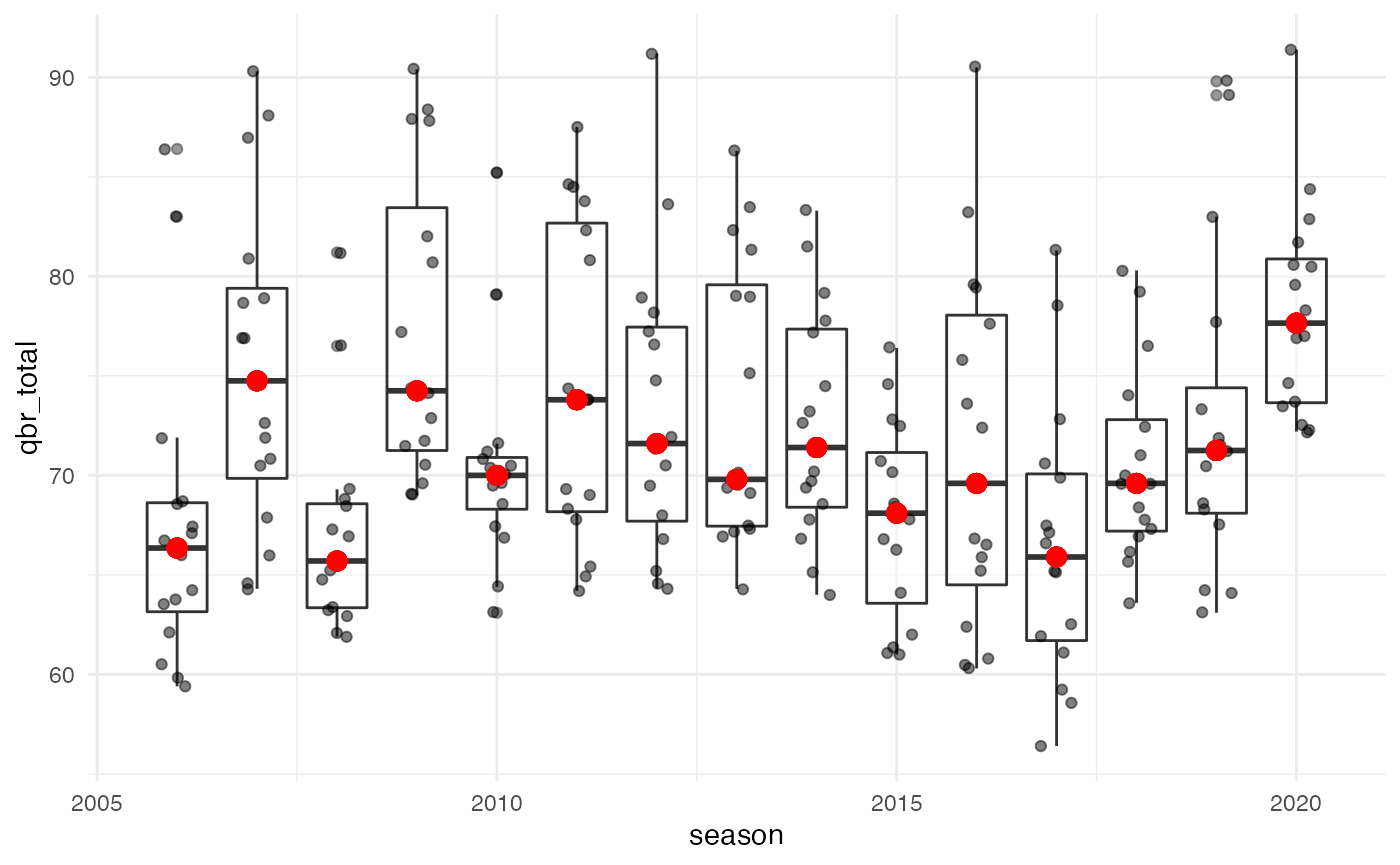
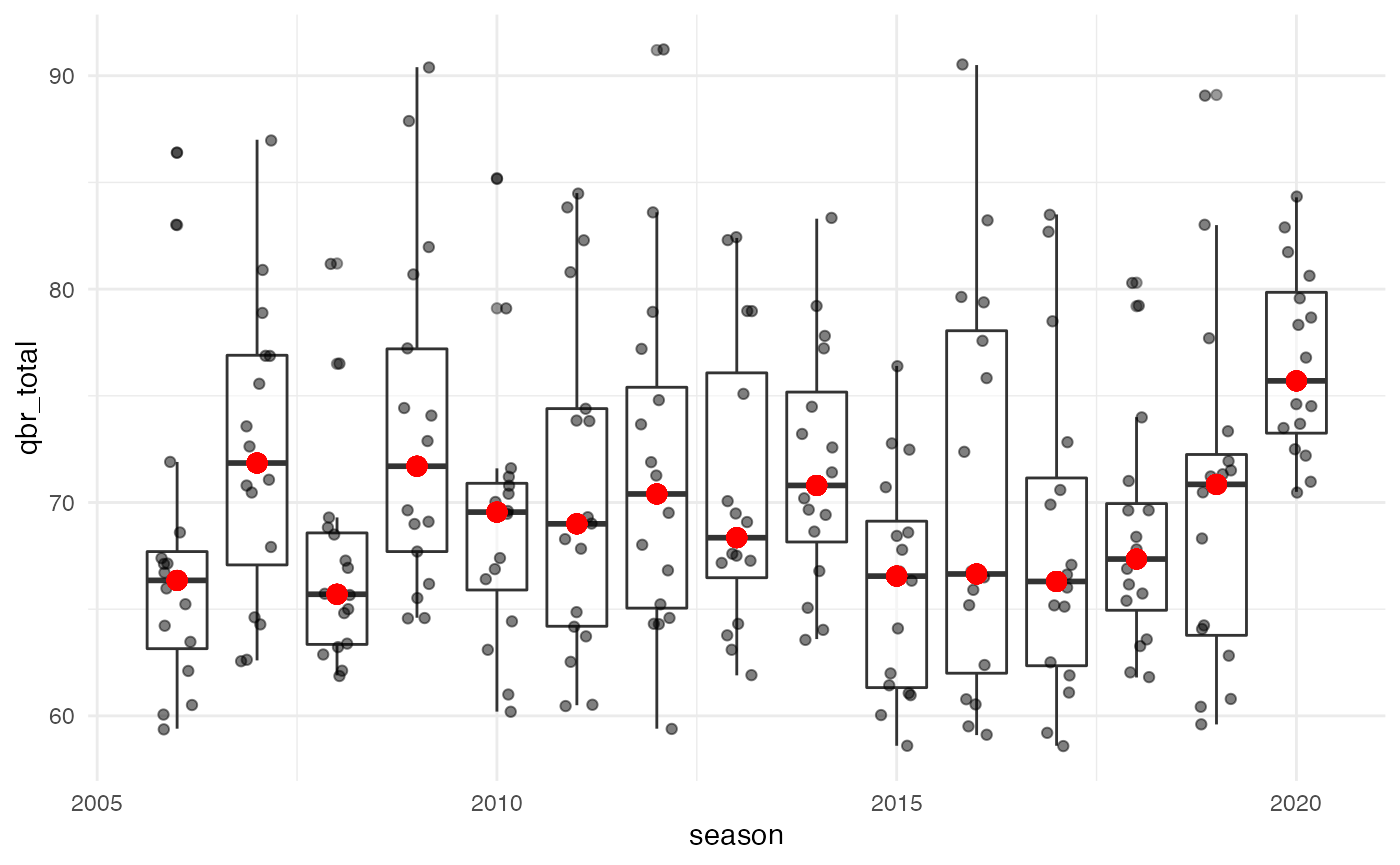
update vignette, update gt theme's to reflect transparent to hex code, rebuild pkgdown site

diff --git a/docs/articles/qbr_example.html b/docs/articles/qbr_example.html
@@ -31,7 +31,7 @@
       </button>
       <span class="navbar-brand">
         <a class="navbar-link" href="../index.html">espnscrapeR</a>
-        <span class="version label label-default" data-toggle="tooltip" data-placement="bottom" title="Released version">0.5.2</span>
+        <span class="version label label-default" data-toggle="tooltip" data-placement="bottom" title="Released version">0.6.0</span>
       </span>
     </div>
 
@@ -129,43 +129,36 @@ Package Installation
 <span class="co">#&gt; Scraping QBR totals for 2020!</span></code></pre></div>
 <p>But it’ll be easier and recommended to just read in the data directly with either <code>nflreadr</code> or just the raw URL.</p>
 <div class="sourceCode" id="cb4"><pre class="downlit sourceCode r">
-<code class="sourceCode R"><span class="va">nfl_qbr_season</span> <span class="op">&lt;-</span> <span class="fu">readr</span><span class="fu">::</span><span class="fu"><a href="https://readr.tidyverse.org/reference/read_delim.html">read_csv</a></span><span class="op">(</span><span class="st">"https://raw.githubusercontent.com/nflverse/espnscrapeR-data/master/data/qbr-nfl-season.csv"</span><span class="op">)</span>
-<span class="co">#&gt; Rows: 633 Columns: 22</span>
-<span class="co">#&gt; ── Column specification ────────────────────────────────────────────────────────</span>
-<span class="co">#&gt; Delimiter: ","</span>
-<span class="co">#&gt; chr  (9): season_type, game_week, team_abb, short_name, first_name, last_nam...</span>
-<span class="co">#&gt; dbl (13): season, player_id, rank, qbr_total, pts_added, qb_plays, epa_total...</span>
-<span class="co">#&gt; </span>
-<span class="co">#&gt; ℹ Use `spec()` to retrieve the full column specification for this data.</span>
-<span class="co">#&gt; ℹ Specify the column types or set `show_col_types = FALSE` to quiet this message.</span></code></pre></div>
+<code class="sourceCode R"><span class="va">nfl_qbr_season</span> <span class="op">&lt;-</span> <span class="fu">readr</span><span class="fu">::</span><span class="fu"><a href="https://readr.tidyverse.org/reference/read_delim.html">read_csv</a></span><span class="op">(</span><span class="st">"https://raw.githubusercontent.com/nflverse/espnscrapeR-data/master/data/qbr-nfl-season.csv"</span><span class="op">)</span></code></pre></div>
 <p>This is the QBR values for all QBs at the season level from 2006 to now. The <code><a href="https://pillar.r-lib.org/reference/glimpse.html">dplyr::glimpse()</a></code> function can be used to quickly see the type of the columns (IE numeric, character, etc) and the top few values. You can think of it as a beefed up version of the <code><a href="https://rdrr.io/r/utils/str.html">str()</a></code> function.</p>
 <div class="sourceCode" id="cb5"><pre class="downlit sourceCode r">
 <code class="sourceCode R"><span class="va">nfl_qbr_season</span> <span class="op">%&gt;%</span> 
   <span class="fu">glimpse</span><span class="op">(</span><span class="op">)</span>
-<span class="co">#&gt; Rows: 633</span>
-<span class="co">#&gt; Columns: 22</span>
+<span class="co">#&gt; Rows: 1,102</span>
+<span class="co">#&gt; Columns: 23</span>
 <span class="co">#&gt; $ season        &lt;dbl&gt; 2006, 2006, 2006, 2006, 2006, 2006, 2006, 2006, 2006, 20…</span>
-<span class="co">#&gt; $ season_type   &lt;chr&gt; "Playoffs", "Playoffs", "Playoffs", "Playoffs", "Playoff…</span>
+<span class="co">#&gt; $ season_type   &lt;chr&gt; "Regular", "Regular", "Regular", "Regular", "Regular", "…</span>
 <span class="co">#&gt; $ game_week     &lt;chr&gt; "Season Total", "Season Total", "Season Total", "Season …</span>
-<span class="co">#&gt; $ team_abb      &lt;chr&gt; "NE", "IND", "NO", "NYG", "PHI", "SEA", "NYJ", "DAL", "C…</span>
-<span class="co">#&gt; $ player_id     &lt;dbl&gt; 2330, 1428, 2580, 5526, 2026, 1575, 2149, 5209, 4480, 73…</span>
-<span class="co">#&gt; $ short_name    &lt;chr&gt; "T. Brady", "P. Manning", "D. Brees", "E. Manning", "J. …</span>
+<span class="co">#&gt; $ team_abb      &lt;chr&gt; "IND", "NE", "SD", "CIN", "NO", "BAL", "NYJ", "DAL", "PH…</span>
+<span class="co">#&gt; $ player_id     &lt;dbl&gt; 1428, 2330, 5529, 4459, 2580, 733, 2149, 5209, 1753, 959…</span>
+<span class="co">#&gt; $ name_short    &lt;chr&gt; "P. Manning", "T. Brady", "P. Rivers", "C. Palmer", "D. …</span>
 <span class="co">#&gt; $ rank          &lt;dbl&gt; 1.0, 2.0, 3.0, 4.0, 5.0, 6.0, 7.0, 8.0, 9.0, 10.0, 11.0,…</span>
-<span class="co">#&gt; $ qbr_total     &lt;dbl&gt; 83.0, 71.9, 68.7, 63.8, 59.8, 55.5, 52.5, 40.0, 30.5, 22…</span>
-<span class="co">#&gt; $ pts_added     &lt;dbl&gt; 12.8, 9.4, 3.1, 1.3, 2.8, 0.8, -0.6, -1.8, -5.5, -2.4, -…</span>
-<span class="co">#&gt; $ qb_plays      &lt;dbl&gt; 135, 174, 92, 38, 76, 79, 47, 34, 102, 35, 35, 31, 624, …</span>
-<span class="co">#&gt; $ epa_total     &lt;dbl&gt; 19.9, 18.6, 7.5, 3.4, 7.2, 5.4, 1.8, 0.2, 0.5, -0.3, -1.…</span>
-<span class="co">#&gt; $ pass          &lt;dbl&gt; 16.9, 15.9, 6.2, 1.9, 6.8, 2.8, 3.0, -0.9, -1.0, -0.7, -…</span>
-<span class="co">#&gt; $ run           &lt;dbl&gt; 0.4, -0.6, -0.5, 0.3, -1.1, 0.0, -2.1, 0.0, -1.0, 0.3, 0…</span>
+<span class="co">#&gt; $ qbr_total     &lt;dbl&gt; 86.4, 68.6, 67.4, 67.1, 66.7, 66.0, 64.2, 63.5, 62.1, 60…</span>
+<span class="co">#&gt; $ pts_added     &lt;dbl&gt; 85.5, 30.9, 28.2, 29.9, 36.7, 27.2, 20.8, 22.0, 17.2, 8.…</span>
+<span class="co">#&gt; $ qb_plays      &lt;dbl&gt; 624, 610, 542, 623, 631, 548, 587, 414, 380, 447, 717, 5…</span>
+<span class="co">#&gt; $ epa_total     &lt;dbl&gt; 108.8, 57.9, 53.0, 58.3, 64.2, 51.8, 47.1, 40.9, 34.9, 2…</span>
+<span class="co">#&gt; $ pass          &lt;dbl&gt; 96.0, 38.8, 43.1, 43.2, 61.0, 38.2, 27.9, 34.0, 17.1, 17…</span>
+<span class="co">#&gt; $ run           &lt;dbl&gt; 6.8, 4.3, -0.9, -0.3, -5.2, 8.2, 3.0, -2.9, 9.1, -0.3, 0…</span>
 <span class="co">#&gt; $ exp_sack      &lt;dbl&gt; 0, 0, 0, 0, 0, 0, 0, 0, 0, 0, 0, 0, 0, 0, 0, 0, 0, 0, 0,…</span>
-<span class="co">#&gt; $ penalty       &lt;dbl&gt; 0.3, 1.2, -0.9, 0.5, -0.2, 1.5, 0.2, 0.1, 0.1, -0.1, 0.0…</span>
-<span class="co">#&gt; $ qbr_raw       &lt;dbl&gt; 79.2, 68.2, 61.7, 61.7, 62.6, 53.5, 45.5, 32.1, 31.9, 27…</span>
-<span class="co">#&gt; $ sack          &lt;dbl&gt; -2.2, -2.1, -2.7, -0.6, -1.6, -1.1, -0.6, -1.1, -2.4, -0…</span>
-<span class="co">#&gt; $ first_name    &lt;chr&gt; "Tom", "Peyton", "Drew", "Eli", "Jeff", "Matt", "Chad", …</span>
-<span class="co">#&gt; $ last_name     &lt;chr&gt; "Brady", "Manning", "Brees", "Manning", "Garcia", "Hasse…</span>
-<span class="co">#&gt; $ name          &lt;chr&gt; "Tom Brady", "Peyton Manning", "Drew Brees", "Eli Mannin…</span>
-<span class="co">#&gt; $ headshot_href &lt;chr&gt; "https://a.espncdn.com/i/headshots/nfl/players/full/2330…</span>
-<span class="co">#&gt; $ team          &lt;chr&gt; "Patriots", "Colts", "Saints", "Giants", "Eagles", "Seah…</span></code></pre></div>
+<span class="co">#&gt; $ penalty       &lt;dbl&gt; 1.1, 2.8, 0.3, 2.5, 0.6, -0.6, 5.2, 0.5, -0.4, 2.4, 3.0,…</span>
+<span class="co">#&gt; $ qbr_raw       &lt;dbl&gt; 87.4, 67.2, 67.6, 66.4, 69.5, 66.9, 62.3, 67.9, 65.5, 56…</span>
+<span class="co">#&gt; $ sack          &lt;dbl&gt; -5.0, -12.0, -10.4, -12.9, -7.7, -6.0, -10.9, -9.2, -9.2…</span>
+<span class="co">#&gt; $ name_first    &lt;chr&gt; "Peyton", "Tom", "Philip", "Carson", "Drew", "Steve", "C…</span>
+<span class="co">#&gt; $ name_last     &lt;chr&gt; "Manning", "Brady", "Rivers", "Palmer", "Brees", "McNair…</span>
+<span class="co">#&gt; $ name_display  &lt;chr&gt; "Peyton Manning", "Tom Brady", "Philip Rivers", "Carson …</span>
+<span class="co">#&gt; $ headshot_href &lt;chr&gt; "https://a.espncdn.com/i/headshots/nfl/players/full/1428…</span>
+<span class="co">#&gt; $ team          &lt;chr&gt; "Colts", "Patriots", "Chargers", "Bengals", "Saints", "R…</span>
+<span class="co">#&gt; $ qualified     &lt;lgl&gt; TRUE, TRUE, TRUE, TRUE, TRUE, TRUE, TRUE, TRUE, TRUE, TR…</span></code></pre></div>
 </div>
 <div id="work-with-the-data" class="section level2">
 <h2 class="hasAnchor">
@@ -181,25 +174,26 @@ Package Installation
 <span class="co">#&gt; # A tibble: 15 × 2</span>
 <span class="co">#&gt;    season qbr_median</span>
 <span class="co">#&gt;     &lt;dbl&gt;      &lt;dbl&gt;</span>
-<span class="co">#&gt;  1   2006       55.5</span>
-<span class="co">#&gt;  2   2007       59.8</span>
-<span class="co">#&gt;  3   2008       56.6</span>
-<span class="co">#&gt;  4   2009       65.2</span>
-<span class="co">#&gt;  5   2010       55.8</span>
-<span class="co">#&gt;  6   2011       54  </span>
-<span class="co">#&gt;  7   2012       52.8</span>
-<span class="co">#&gt;  8   2013       58.7</span>
-<span class="co">#&gt;  9   2014       59.3</span>
-<span class="co">#&gt; 10   2015       57.2</span>
-<span class="co">#&gt; 11   2016       56.6</span>
-<span class="co">#&gt; 12   2017       55.8</span>
-<span class="co">#&gt; 13   2018       57.6</span>
-<span class="co">#&gt; 14   2019       56.7</span>
-<span class="co">#&gt; 15   2020       68.4</span></code></pre></div>
+<span class="co">#&gt;  1   2006       59.8</span>
+<span class="co">#&gt;  2   2007       64.4</span>
+<span class="co">#&gt;  3   2008       62.5</span>
+<span class="co">#&gt;  4   2009       68.2</span>
+<span class="co">#&gt;  5   2010       62.0</span>
+<span class="co">#&gt;  6   2011       60.5</span>
+<span class="co">#&gt;  7   2012       63.5</span>
+<span class="co">#&gt;  8   2013       63.8</span>
+<span class="co">#&gt;  9   2014       61.8</span>
+<span class="co">#&gt; 10   2015       58.3</span>
+<span class="co">#&gt; 11   2016       65.0</span>
+<span class="co">#&gt; 12   2017       56  </span>
+<span class="co">#&gt; 13   2018       63.4</span>
+<span class="co">#&gt; 14   2019       64.1</span>
+<span class="co">#&gt; 15   2020       71.1</span></code></pre></div>
 <p>We can also <code>group_by()</code> the season and find the max <code>n</code> values per season.</p>
 <div class="sourceCode" id="cb7"><pre class="downlit sourceCode r">
 <code class="sourceCode R"><span class="va">top_16_per_yr</span> <span class="op">&lt;-</span> <span class="va">nfl_qbr_season</span> <span class="op">%&gt;%</span> 
-  <span class="fu">select</span><span class="op">(</span><span class="va">season</span>, <span class="va">team_abb</span>, <span class="va">short_name</span>, <span class="va">qbr_total</span><span class="op">)</span> <span class="op">%&gt;%</span> 
+  <span class="fu"><a href="https://rdrr.io/r/stats/filter.html">filter</a></span><span class="op">(</span><span class="va">qb_plays</span> <span class="op">&gt;=</span> <span class="fl">100</span><span class="op">)</span> <span class="op">%&gt;%</span> 
+  <span class="fu">select</span><span class="op">(</span><span class="va">season</span>, <span class="va">team_abb</span>, <span class="va">name_short</span>, <span class="va">qbr_total</span><span class="op">)</span> <span class="op">%&gt;%</span> 
   <span class="co"># group by season</span>
   <span class="fu">group_by</span><span class="op">(</span><span class="va">season</span><span class="op">)</span> <span class="op">%&gt;%</span> 
   <span class="co"># get top 16</span>
@@ -209,20 +203,20 @@ Package Installation
   <span class="fu">ungroup</span><span class="op">(</span><span class="op">)</span>
 
 <span class="va">top_16_per_yr</span>
-<span class="co">#&gt; # A tibble: 240 × 5</span>
-<span class="co">#&gt;    season team_abb short_name    qbr_total qbr_median</span>
-<span class="co">#&gt;     &lt;dbl&gt; &lt;chr&gt;    &lt;chr&gt;             &lt;dbl&gt;      &lt;dbl&gt;</span>
-<span class="co">#&gt;  1   2006 IND      P. Manning         86.4       66.4</span>
-<span class="co">#&gt;  2   2006 NE       T. Brady           83         66.4</span>
-<span class="co">#&gt;  3   2006 IND      P. Manning         71.9       66.4</span>
-<span class="co">#&gt;  4   2006 NO       D. Brees           68.7       66.4</span>
-<span class="co">#&gt;  5   2006 NE       T. Brady           68.6       66.4</span>
-<span class="co">#&gt;  6   2006 SD       P. Rivers          67.4       66.4</span>
-<span class="co">#&gt;  7   2006 CIN      C. Palmer          67.1       66.4</span>
-<span class="co">#&gt;  8   2006 NO       D. Brees           66.7       66.4</span>
-<span class="co">#&gt;  9   2006 BAL      S. McNair          66         66.4</span>
-<span class="co">#&gt; 10   2006 NYJ      C. Pennington      64.2       66.4</span>
-<span class="co">#&gt; # … with 230 more rows</span></code></pre></div>
+<span class="co">#&gt; # A tibble: 242 × 5</span>
+<span class="co">#&gt;    season team_abb name_short qbr_total qbr_median</span>
+<span class="co">#&gt;     &lt;dbl&gt; &lt;chr&gt;    &lt;chr&gt;          &lt;dbl&gt;      &lt;dbl&gt;</span>
+<span class="co">#&gt;  1   2006 IND      P. Manning      86.4       66.4</span>
+<span class="co">#&gt;  2   2006 NE       T. Brady        83         66.4</span>
+<span class="co">#&gt;  3   2006 IND      P. Manning      71.9       66.4</span>
+<span class="co">#&gt;  4   2006 NE       T. Brady        68.6       66.4</span>
+<span class="co">#&gt;  5   2006 SD       P. Rivers       67.4       66.4</span>
+<span class="co">#&gt;  6   2006 CIN      C. Palmer       67.1       66.4</span>
+<span class="co">#&gt;  7   2006 PHI      J. Garcia       67.1       66.4</span>
+<span class="co">#&gt;  8   2006 NO       D. Brees        66.7       66.4</span>
+<span class="co">#&gt;  9   2006 BAL      S. McNair       66         66.4</span>
+<span class="co">#&gt; 10   2006 TB       T. Rattay       65.2       66.4</span>
+<span class="co">#&gt; # … with 232 more rows</span></code></pre></div>
 <p>We can then visualize this with a quick <code>ggplot</code>.</p>
 <div class="sourceCode" id="cb8"><pre class="downlit sourceCode r">
 <code class="sourceCode R"><span class="va">top_16_per_yr</span> <span class="op">%&gt;%</span> 
@@ -235,7 +229,8 @@ Package Installation
 <p>Alternatively you can also find the median by quarterback.</p>
 <div class="sourceCode" id="cb9"><pre class="downlit sourceCode r">
 <code class="sourceCode R"><span class="va">nfl_qbr_season</span> <span class="op">%&gt;%</span>
-  <span class="fu">group_by</span><span class="op">(</span><span class="va">short_name</span><span class="op">)</span> <span class="op">%&gt;%</span> 
+  <span class="fu"><a href="https://rdrr.io/r/stats/filter.html">filter</a></span><span class="op">(</span><span class="va">qb_plays</span> <span class="op">&gt;=</span> <span class="fl">100</span><span class="op">)</span> <span class="op">%&gt;%</span> 
+  <span class="fu">group_by</span><span class="op">(</span><span class="va">name_short</span><span class="op">)</span> <span class="op">%&gt;%</span> 
   <span class="fu">summarize</span><span class="op">(</span>
     median <span class="op">=</span> <span class="fu"><a href="https://rdrr.io/r/stats/median.html">median</a></span><span class="op">(</span><span class="va">qbr_total</span><span class="op">)</span>, 
     years <span class="op">=</span> <span class="fu"><a href="https://rdrr.io/r/base/range.html">range</a></span><span class="op">(</span><span class="va">season</span><span class="op">)</span> <span class="op">%&gt;%</span> <span class="fu"><a href="https://rdrr.io/r/base/paste.html">paste0</a></span><span class="op">(</span>collapse <span class="op">=</span> <span class="st">"-"</span><span class="op">)</span>,
@@ -243,20 +238,20 @@ Package Installation
     .groups <span class="op">=</span> <span class="st">"drop"</span>
     <span class="op">)</span> <span class="op">%&gt;%</span> 
   <span class="fu">arrange</span><span class="op">(</span><span class="fu">desc</span><span class="op">(</span><span class="va">median</span><span class="op">)</span><span class="op">)</span>
-<span class="co">#&gt; # A tibble: 124 × 4</span>
-<span class="co">#&gt;    short_name  median years     active </span>
+<span class="co">#&gt; # A tibble: 135 × 4</span>
+<span class="co">#&gt;    name_short  median years     active </span>
 <span class="co">#&gt;    &lt;chr&gt;        &lt;dbl&gt; &lt;chr&gt;     &lt;chr&gt;  </span>
-<span class="co">#&gt;  1 P. Mahomes    80.4 2018-2020 Active </span>
-<span class="co">#&gt;  2 P. Manning    74.6 2006-2015 Retired</span>
-<span class="co">#&gt;  3 D. Prescott   72.8 2016-2019 Retired</span>
-<span class="co">#&gt;  4 T. Brady      72.5 2006-2020 Active </span>
-<span class="co">#&gt;  5 D. Watson     70.5 2018-2020 Active </span>
-<span class="co">#&gt;  6 A. Rodgers    70.4 2008-2020 Active </span>
-<span class="co">#&gt;  7 J. Herbert    69.5 2020-2020 Active </span>
-<span class="co">#&gt;  8 D. Brees      68.9 2006-2020 Active </span>
-<span class="co">#&gt;  9 K. Warner     68.5 2007-2009 Retired</span>
-<span class="co">#&gt; 10 M. Ryan       67.3 2008-2020 Active </span>
-<span class="co">#&gt; # … with 114 more rows</span></code></pre></div>
+<span class="co">#&gt;  1 P. Mahomes    80.6 2018-2020 Active </span>
+<span class="co">#&gt;  2 P. Manning    76.9 2006-2015 Retired</span>
+<span class="co">#&gt;  3 T. Brady      73.9 2006-2020 Active </span>
+<span class="co">#&gt;  4 L. Jackson    73.7 2018-2020 Active </span>
+<span class="co">#&gt;  5 Q. Gray       73.6 2007-2007 Retired</span>
+<span class="co">#&gt;  6 D. Prescott   71.9 2016-2020 Active </span>
+<span class="co">#&gt;  7 T. Collins    71.1 2007-2007 Retired</span>
+<span class="co">#&gt;  8 D. Brees      70.8 2006-2020 Active </span>
+<span class="co">#&gt;  9 D. Watson     70.5 2017-2020 Active </span>
+<span class="co">#&gt; 10 A. Rodgers    69.6 2008-2020 Active </span>
+<span class="co">#&gt; # … with 125 more rows</span></code></pre></div>
 </div>
 </div>
   </div>

diff --git a/docs/articles/index.html b/docs/articles/index.html
@@ -71,7 +71,7 @@
       </button>
       <span class="navbar-brand">
         <a class="navbar-link" href="../index.html">espnscrapeR</a>
-        <span class="version label label-default" data-toggle="tooltip" data-placement="bottom" title="Released version">0.5.2</span>
+        <span class="version label label-default" data-toggle="tooltip" data-placement="bottom" title="Released version">0.6.0</span>
       </span>
     </div>
 

diff --git a/docs/reference/espnscrapeR-package.html b/docs/reference/espnscrapeR-package.html
@@ -73,7 +73,7 @@
       </button>
       <span class="navbar-brand">
         <a class="navbar-link" href="../index.html">espnscrapeR</a>
-        <span class="version label label-default" data-toggle="tooltip" data-placement="bottom" title="Released version">0.5.2</span>
+        <span class="version label label-default" data-toggle="tooltip" data-placement="bottom" title="Released version">0.6.0</span>
       </span>
     </div>
 

diff --git a/docs/reference/get_538_elo.html b/docs/reference/get_538_elo.html
@@ -72,7 +72,7 @@
       </button>
       <span class="navbar-brand">
         <a class="navbar-link" href="../index.html">espnscrapeR</a>
-        <span class="version label label-default" data-toggle="tooltip" data-placement="bottom" title="Released version">0.5.2</span>
+        <span class="version label label-default" data-toggle="tooltip" data-placement="bottom" title="Released version">0.6.0</span>
       </span>
     </div>
 

diff --git a/docs/reference/get_538_elo_historical.html b/docs/reference/get_538_elo_historical.html
@@ -72,7 +72,7 @@
       </button>
       <span class="navbar-brand">
         <a class="navbar-link" href="../index.html">espnscrapeR</a>
-        <span class="version label label-default" data-toggle="tooltip" data-placement="bottom" title="Released version">0.5.2</span>
+        <span class="version label label-default" data-toggle="tooltip" data-placement="bottom" title="Released version">0.6.0</span>
       </span>
     </div>
 

diff --git a/docs/reference/get_athlete.html b/docs/reference/get_athlete.html
@@ -72,7 +72,7 @@
       </button>
       <span class="navbar-brand">
         <a class="navbar-link" href="../index.html">espnscrapeR</a>
-        <span class="version label label-default" data-toggle="tooltip" data-placement="bottom" title="Released version">0.5.2</span>
+        <span class="version label label-default" data-toggle="tooltip" data-placement="bottom" title="Released version">0.6.0</span>
       </span>
     </div>
 

diff --git a/docs/reference/get_college_qbr.html b/docs/reference/get_college_qbr.html
@@ -72,7 +72,7 @@
       </button>
       <span class="navbar-brand">
         <a class="navbar-link" href="../index.html">espnscrapeR</a>
-        <span class="version label label-default" data-toggle="tooltip" data-placement="bottom" title="Released version">0.5.2</span>
+        <span class="version label label-default" data-toggle="tooltip" data-placement="bottom" title="Released version">0.6.0</span>
       </span>
     </div>
 

diff --git a/docs/reference/get_depth_chart.html b/docs/reference/get_depth_chart.html
@@ -72,7 +72,7 @@
       </button>
       <span class="navbar-brand">
         <a class="navbar-link" href="../index.html">espnscrapeR</a>
-        <span class="version label label-default" data-toggle="tooltip" data-placement="bottom" title="Released version">0.5.2</span>
+        <span class="version label label-default" data-toggle="tooltip" data-placement="bottom" title="Released version">0.6.0</span>
       </span>
     </div>
 

diff --git a/docs/reference/get_espn_win_prob.html b/docs/reference/get_espn_win_prob.html
@@ -72,7 +72,7 @@
       </button>
       <span class="navbar-brand">
         <a class="navbar-link" href="../index.html">espnscrapeR</a>
-        <span class="version label label-default" data-toggle="tooltip" data-placement="bottom" title="Released version">0.5.2</span>
+        <span class="version label label-default" data-toggle="tooltip" data-placement="bottom" title="Released version">0.6.0</span>
       </span>
     </div>
 

diff --git a/docs/reference/get_nfl_boxscore.html b/docs/reference/get_nfl_boxscore.html
@@ -72,7 +72,7 @@
       </button>
       <span class="navbar-brand">
         <a class="navbar-link" href="../index.html">espnscrapeR</a>
-        <span class="version label label-default" data-toggle="tooltip" data-placement="bottom" title="Released version">0.5.2</span>
+        <span class="version label label-default" data-toggle="tooltip" data-placement="bottom" title="Released version">0.6.0</span>
       </span>
     </div>
 

diff --git a/docs/reference/get_nfl_boxscore_players.html b/docs/reference/get_nfl_boxscore_players.html
@@ -72,7 +72,7 @@
       </button>
       <span class="navbar-brand">
         <a class="navbar-link" href="../index.html">espnscrapeR</a>
-        <span class="version label label-default" data-toggle="tooltip" data-placement="bottom" title="Released version">0.5.2</span>
+        <span class="version label label-default" data-toggle="tooltip" data-placement="bottom" title="Released version">0.6.0</span>
       </span>
     </div>
 

diff --git a/docs/reference/get_nfl_odds.html b/docs/reference/get_nfl_odds.html
@@ -72,7 +72,7 @@
       </button>
       <span class="navbar-brand">
         <a class="navbar-link" href="../index.html">espnscrapeR</a>
-        <span class="version label label-default" data-toggle="tooltip" data-placement="bottom" title="Released version">0.5.2</span>
+        <span class="version label label-default" data-toggle="tooltip" data-placement="bottom" title="Released version">0.6.0</span>
       </span>
     </div>
 
